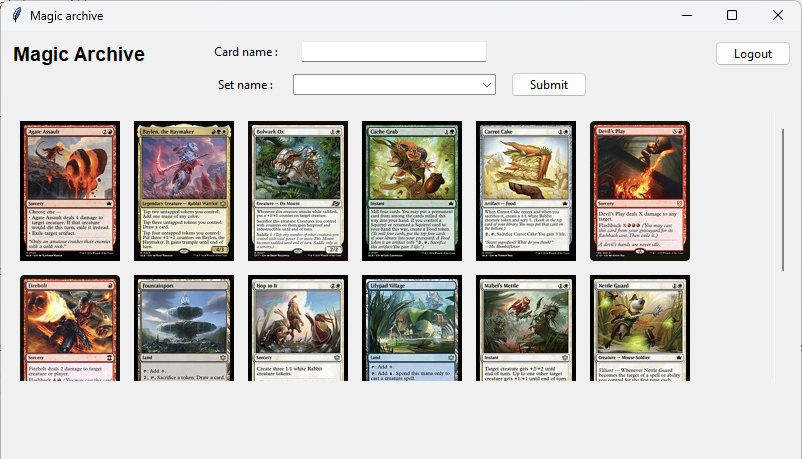
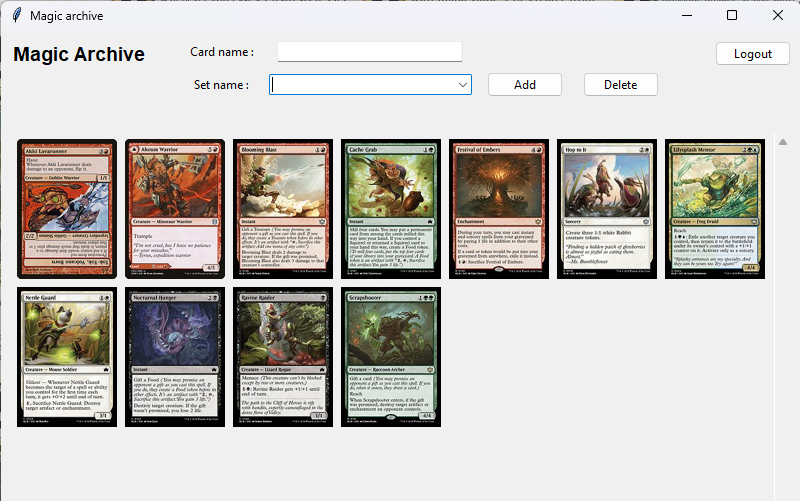
Fix card name issue with same card in different sets. Other tweaks and documentation.

diff --git a/src/tests/repositories/card_repository_test.py b/src/tests/repositories/card_repository_test.py
@@ -115,12 +115,13 @@ class TestCardRepository(unittest.TestCase):
 
     def test_get_user_card_names_success(self):
         self.create_fake_card_and_user_and_assign()
-        result = card_repository.get_user_card_names(self.user_id)
+        result = card_repository.get_user_card_names_and_set_codes(
+            self.user_id)
 
-        self.assertEqual(result[0], "Test_Dragon")
+        self.assertEqual(result[0][0], "Test_Dragon")
 
     def test_get_user_card_names_returns_none(self):
-        result = card_repository.get_user_card_names(-1)
+        result = card_repository.get_user_card_names_and_set_codes(-1)
 
         self.assertEqual(result, None)
 
@@ -141,30 +142,38 @@ class TestCardRepository(unittest.TestCase):
 
     @patch("repositories.card_repository.requests.get")
     @patch("repositories.card_repository.open", new_callable=mock_open)
-    @patch("repositories.card_repository.os.makedirs")
-    def test_save_card_image_successfully(self, mock_makedirs, mock_open_file, mock_get):
+    def test_save_card_image_successfully(self, mock_open_file, mock_get):
         self.mock_response.status_code = 200
         self.mock_response.content = b"fake_image_data"
         mock_get.return_value = self.mock_response
 
         image_uri = "http://example.com/card.png"
         card_name = "Fake Card"
-        result = card_repository.save_card_image(image_uri, card_name)
-        expected_path = os.path.join("images", "fake_card.png")
+        set_code = "FAKE"
+        dirname = os.path.dirname(__file__)
+        expected_path = os.path.abspath(
+            os.path.join(
+                dirname, "..", "..", "..", "images", "fake_card_FAKE.png"
+            )
+        )
 
-        mock_makedirs.assert_called_once_with("images", exist_ok=True)
+        card_repository.save_card_image(
+            image_uri, card_name, set_code
+        )
+
         mock_open_file.assert_called_once_with(expected_path, "wb")
         mock_open_file().write.assert_called_once_with(b"fake_image_data")
-        self.assertEqual(result, expected_path)
 
     @patch("repositories.card_repository.requests.get")
-    @patch("repositories.card_repository.os.makedirs")
-    def test_save_card_image_requests_error(self, mock_makedirs, mock_get):
+    def test_save_card_image_requests_error(self, mock_get):
         self.mock_response.raise_for_status.side_effect = requests.exceptions.RequestException(
             "404 error"
         )
         mock_get.return_value = self.mock_response
 
-        self.assertLessEqual(mock_makedirs.call_count, 1)
         with self.assertRaises(CardImageNotFoundError):
-            card_repository.save_card_image("http://invalid.url", "Fake Card")
+            card_repository.save_card_image(
+                "http://invalid.url",
+                "Fake Card",
+                "FAKE"
+            )

diff --git a/src/repositories/card_repository.py b/src/repositories/card_repository.py
@@ -4,7 +4,7 @@ import os
 import requests
 from entities.card import Card
 from utils.database.database_connection import get_database_connection
-from utils.card_utils import card_names_to_png_filenames
+from utils.card_utils import card_name_to_png_filename
 from config import USER_AGENT
 
 
@@ -266,14 +266,15 @@ class CardRepository:
 
         return True
 
-    def get_user_card_names(self, user_id):
-        """Gets names of the cards owned by the user.
+    def get_user_card_names_and_set_codes(self, user_id):
+        """Gets card names and set codes of the cards
+        owned by the user.
 
         Args:
             user_id (int):
                 Database id (primary key) for user.
         Returns:
-            List of card names owned by the user,
+            List of tuples: (card_name, set_code).
             None if not found.
         Raises:
             DatabaseFindError:
@@ -283,7 +284,7 @@ class CardRepository:
 
         try:
             cursor.execute(
-                """SELECT c.name
+                """SELECT c.name, c.set_code
                 FROM Cards c
                 LEFT JOIN UserCards uc ON c.id = uc.card_id
                 WHERE uc.user_id = ?""",
@@ -297,7 +298,7 @@ class CardRepository:
         rows = cursor.fetchall()
 
         if rows:
-            return [row[0] for row in rows]
+            return rows
 
         return None
 
@@ -335,7 +336,7 @@ class CardRepository:
 
         return False
 
-    def save_card_image(self, image_uri, card_name, save_dir="images"):
+    def save_card_image(self, image_uri, card_name, set_code):
         """Saves card image into /images -folder. There are FOUR special
         layouts of Magic the Gathering cards: 'split', 'flip', 'transform' and 'modal_dfc'.
         They require special handling in filenames and image fetching.
@@ -352,11 +353,13 @@ class CardRepository:
             CardImageNotFoundError:
         """
 
-        # Partially enerated code begins
-        os.makedirs(save_dir, exist_ok=True)
+        # Partially generated code begins
 
-        filename = card_names_to_png_filenames(card_name)
-        image_path = os.path.join(save_dir, filename)
+        filename = card_name_to_png_filename(card_name, set_code)
+        dirname = os.path.dirname(__file__)
+        image_path = os.path.abspath(
+            os.path.join(dirname, "..", "..", "images", filename)
+        )
 
         try:
             response = requests.get(image_uri, timeout=10)
@@ -370,7 +373,6 @@ class CardRepository:
                 "Writing card image to disk failed."
             ) from e
 
-        return image_path
         # Partially generated code ends
 
 

diff --git a/src/services/magic_service.py b/src/services/magic_service.py
@@ -6,7 +6,7 @@ from repositories.card_repository import (
 )
 from entities.user import User
 from entities.card import Card
-from utils.card_utils import card_names_to_png_filenames
+from utils.card_utils import card_name_to_png_filename
 
 
 class InvalidUsernameError(Exception):
@@ -139,16 +139,18 @@ class MagicService:
         """Gets the card image filenames of the current user.
 
         Args:
-            username (str):
+            user_id (int): User database id (primary key)
 
         Returns:
             List: List of image filenames for users cards.
         """
 
-        card_names = self._card_repository.get_user_card_names(user_id)
+        results = self._card_repository.get_user_card_names_and_set_codes(
+            user_id
+        )
 
-        if card_names:
-            return [card_names_to_png_filenames(name) for name in card_names]
+        if results:
+            return [card_name_to_png_filename(res[0], res[1]) for res in results]
         return []
 
     def _assign_card_to_user(self, user_id, card_id):
@@ -228,7 +230,8 @@ class MagicService:
                 image_uris = first_face["image_uris"]
             self._card_repository.save_card_image(
                 image_uris["small"],
-                card.name
+                card.name,
+                card.set_code
             )
 
         self._assign_card_to_user(self._user.user_id, card_id)

diff --git a/src/tests/services/magic_service_test.py b/src/tests/services/magic_service_test.py
@@ -105,12 +105,14 @@ class TestMagicService(unittest.TestCase):
         )
 
     def test_get_image_filenames_success(self):
-        self.card_repository_mock.get_user_card_names.return_value = [
-            "Test Card"
+        self.card_repository_mock.get_user_card_names_and_set_codes.return_value = [
+            ("Test Card", "FAKE")
         ]
-        filename = self.magic_service.get_user_card_image_filenames("alfa")
+        result = self.magic_service.get_user_card_image_filenames(
+            self.user_id
+        )
 
-        self.assertEqual(filename[0], "test_card.png")
+        self.assertEqual(result, ["test_card_FAKE.png"])
 
     @patch("services.magic_service.Card.from_scryfall_json")
     @patch.object(MagicService, "_assign_card_to_user")

diff --git a/src/ui/magic_card_view.py b/src/ui/magic_card_view.py
@@ -59,7 +59,8 @@ class CardListView:
         self._frame.grid_columnconfigure(0, weight=1)
         self._frame.grid_rowconfigure(0, weight=1)
 
-        self._images_dir = "./images"
+        dirname = os.path.dirname(__file__)
+        self._images_dir = os.path.join(dirname, "..", "..", "images")
         self._thumbnail_size = (100, 140)
 
         canvas = Canvas(master=self._frame)

diff --git a/src/utils/card_utils.py b/src/utils/card_utils.py
@@ -1,4 +1,4 @@
-def card_names_to_png_filenames(card_name):
-    filename = f"{card_name.lower().replace(' // ', '_slash_').replace(' ', '_')}.png"
+def card_name_to_png_filename(card_name, set_code):
+    filename = f"{card_name.lower().replace(' // ', '_slash_').replace(' ', '_')}_{set_code}.png"
 
     return filename

diff --git a/src/ui/create_user_view.py b/src/ui/create_user_view.py
@@ -122,3 +122,5 @@ class CreateUserView:
             foreground="red"
         )
         self._error_label.pack(pady=(10, 0))
+
+        self._new_username_entry.focus_set()

diff --git a/Documentation/manual.md b/Documentation/manual.md
@@ -19,7 +19,7 @@ Before starting the application, install the dependencies with the command:
 1. Install dependencies with the following command:
 
 ```bash
-poetry install
+poetry install --no-root
 ```
 
 2. Initialize application database with:
@@ -40,6 +40,12 @@ The application will start in login view. Use **Create user** first to acquire c
 
 ## Card view
 
-Here you can see the cards stored in the database. You can add new cards by giving the card name and choosing a corresponding card set, then click add.
+Here you can see the cards stored in your collection. Same card can be in different card sets as a reprint, so you need to use both the card and set name. You can add new cards by typing the card name and choosing a corresponding card set, then click 'Add'. If you want to remove a card from your collection, type in the name and set of the card, then click 'Delete'. Here are some example cards with corresponding sets for you to try out:
+
+- Blooming Blast, Bloomburrow
+- Cache Grab, Bloomburrow
+- Hop to It, Bloomburrow
+- Firebolt, Eternal Masters
+- Firebotl, Odyssey
 
 ![](./pics/card_view.png)

diff --git a/README.md b/README.md
@@ -26,7 +26,7 @@ The application's functionality has been tested with Python version `3.13`. Issu
 1. Install dependencies with the following command:
 
 ```bash
-poetry install
+poetry install --no-root
 ```
 
 2. Initialize application database with:
